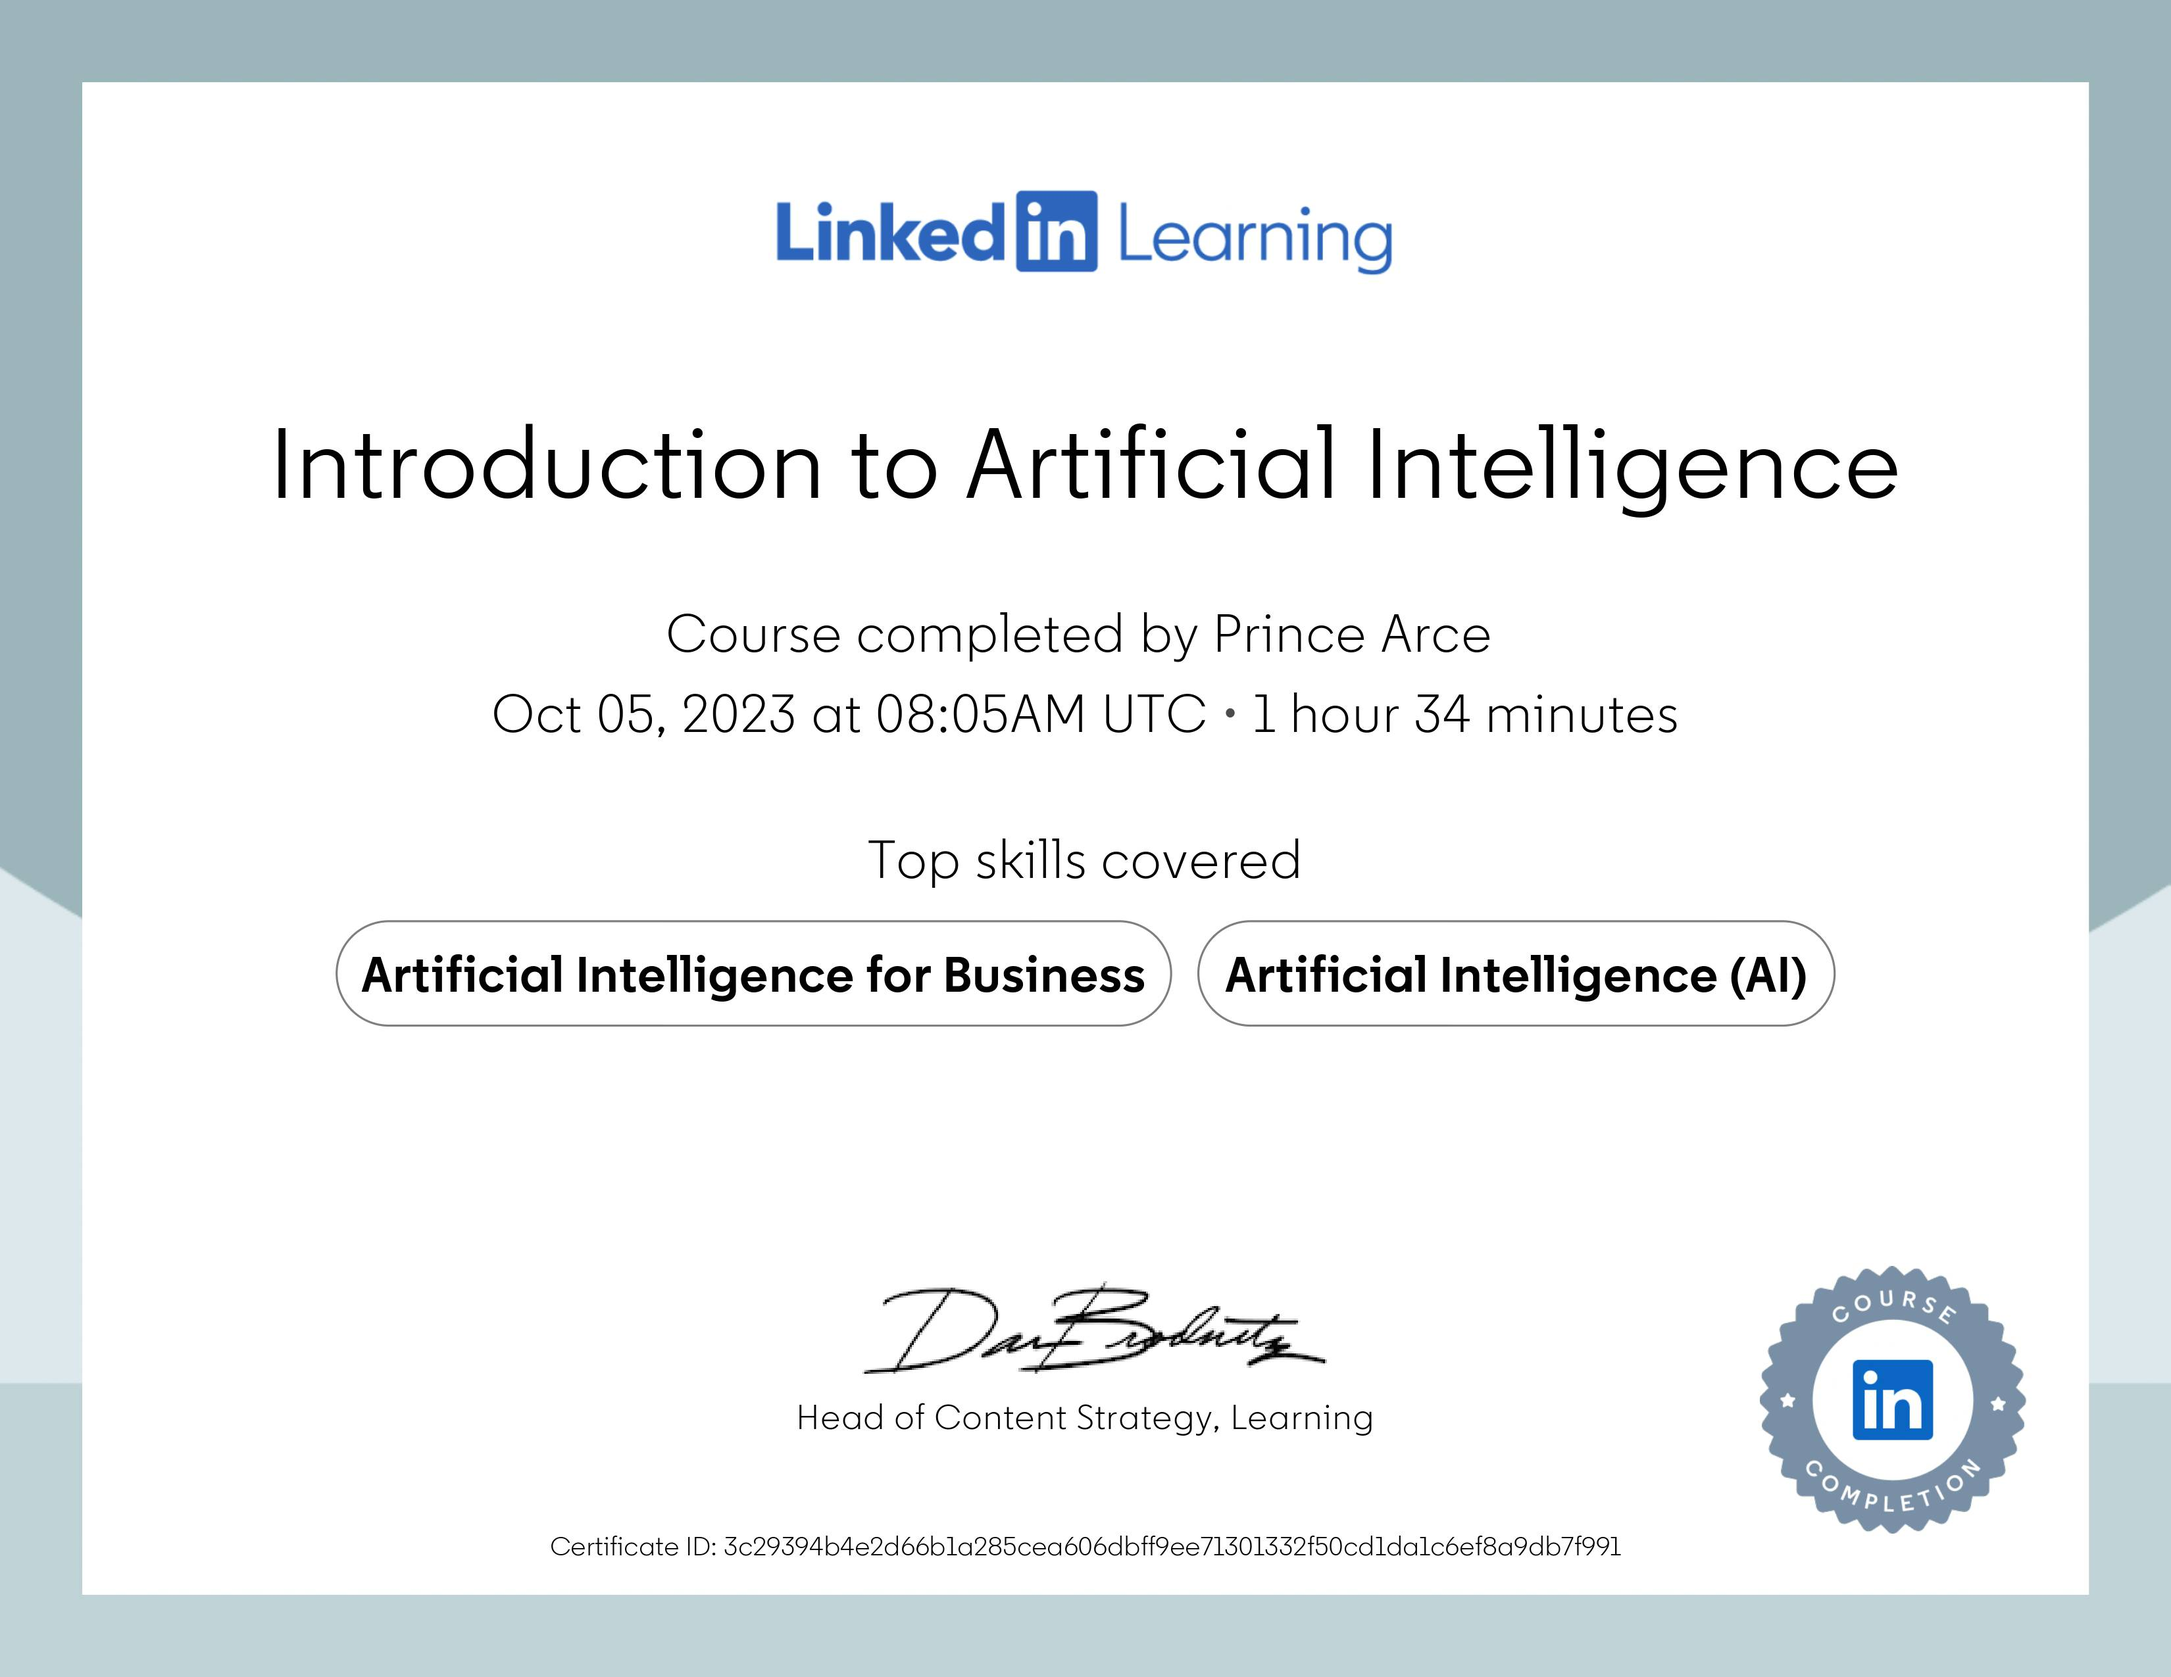
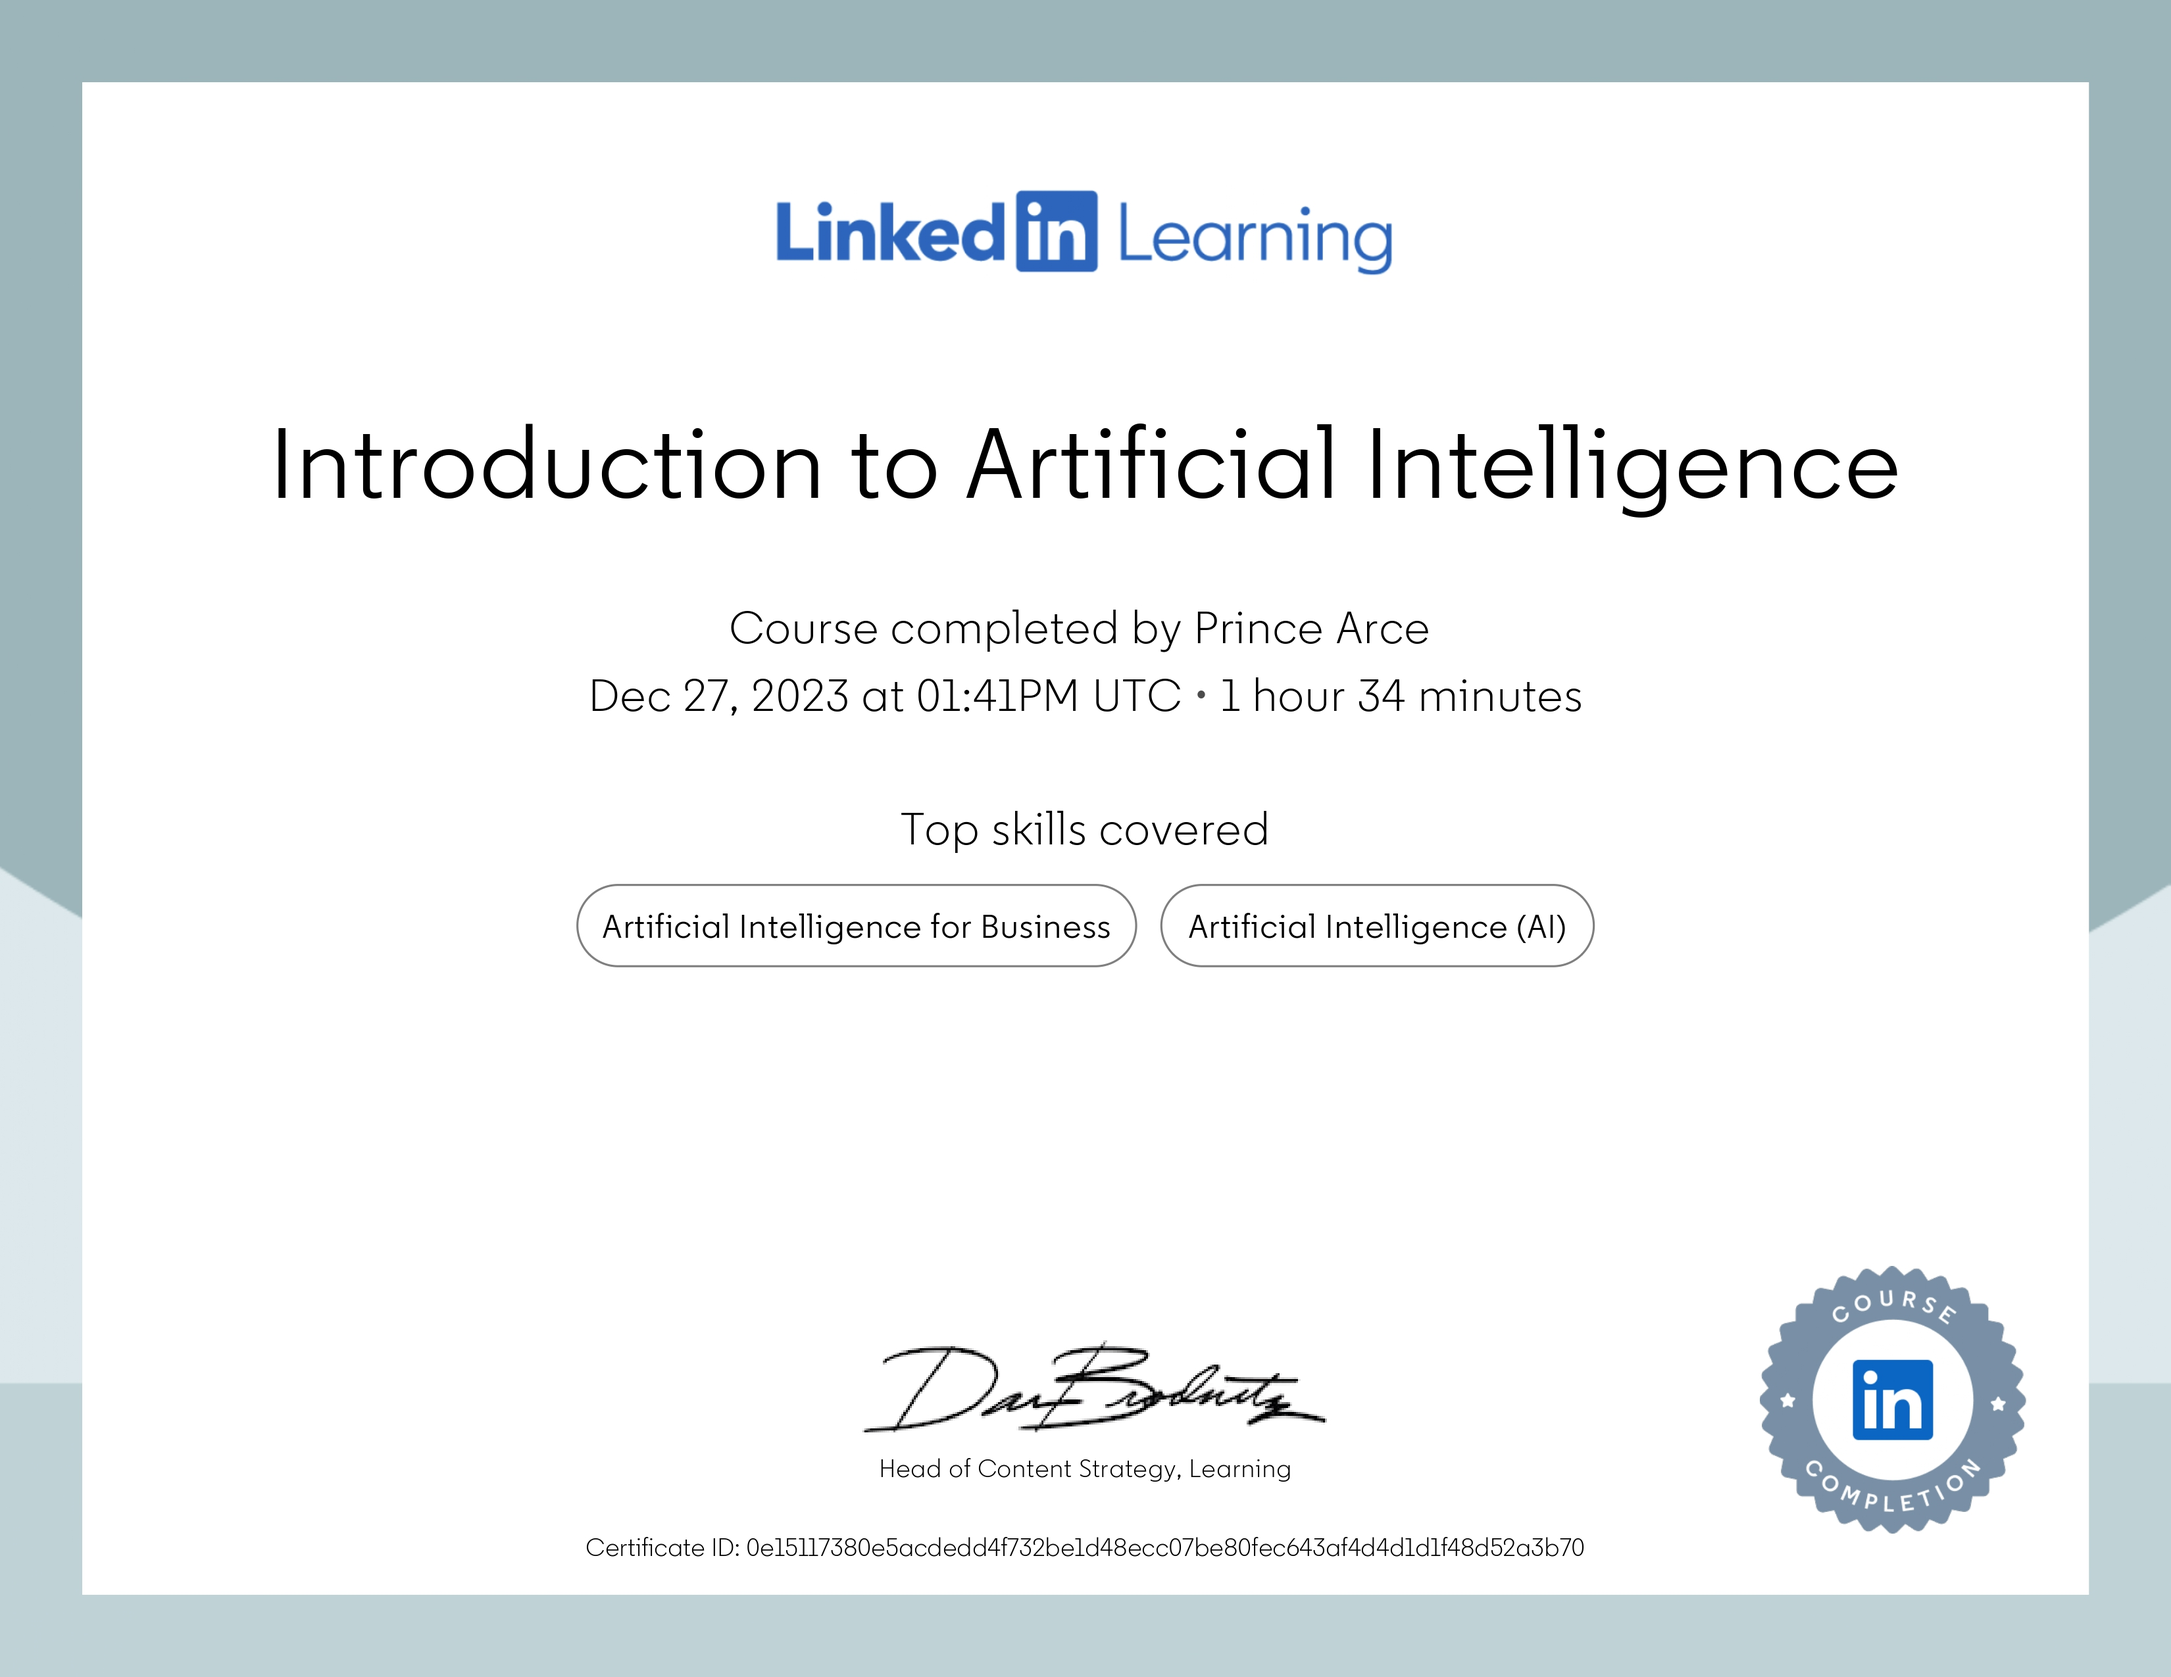
UPDATE

diff --git a/portfolio.js b/portfolio.js
@@ -83,7 +83,7 @@ let upskill = [
 	['Artificial Intelligence and Machine Learning in Business','Sep 12, 2023','Cert No: 4876-17286154','https://alison.com/certification/check/2y10dZlr47IdrLt04sndX3EyeFFyeYwzRDMWNAhpSWSlXElK0o6JzS'],
 	['Basics of Prompt Engineering','Sep 21, 2023','Cert No: 6158-17286154','https://alison.com/certification/check/2y10757e8A9Ox7wj350weZE5dlf8tGXf4d652WF2oI1ZahDbun04XTG'],
 	['Data Analysis with Python','Sep 22, 2023','freeCodeCamp','https://freecodecamp.org/certification/fcc1dc30e38-7fc3-4290-aec4-44b9b42fc134/data-analysis-with-python-v7'],
-	['Introduction to Artificial Intelligence','Oct 05, 2023','Certificate ID: 3c29394b4e2d66b1a285cea606dbff9ee71301332f50cd1da1c6ef8a9db7f991','https://www.linkedin.com/learning/certificates/3c29394b4e2d66b1a285cea606dbff9ee71301332f50cd1da1c6ef8a9db7f991'],
+	['Introduction to Artificial Intelligence','Dec 27, 2023','Certificate ID: 0e15117380e5acdedd4f732be1d48ecc07be80fec643af4d4d1d1f48d52a3b70','https://www.linkedin.com/learning/certificates/0e15117380e5acdedd4f732be1d48ecc07be80fec643af4d4d1d1f48d52a3b70'],
 	['ChatGPT (Open AI) Security, Privacy ','Oct 06, 2023','Certificate ID: 5467-17286154','https://alison.com/certification/check/2y10wsHX8sLCUM8Bm85kH84zgaJshs5dy4KJdsKDc1RZDBU0ZoJta'],
 	['Introduction to Prompt Engineering for Generative AI','Oct 09, 2023','Certificate ID: 00652d8549bf994935cbdeec9ef5c6781615bc33774a63fdf9a5c0a1d0cfbb02','https://www.linkedin.com/learning/certificates/00652d8549bf994935cbdeec9ef5c6781615bc33774a63fdf9a5c0a1d0cfbb02'],
 	['Data, Databases and Mining','Nov 24, 2023','Certificate ID: 3318-17286154','https://alison.com/certification/check/2y10QjBW7omaZpSHQWfbu4N1e89Z52xPV70k2dJZCEfxu0zjVNMFq64C'],
